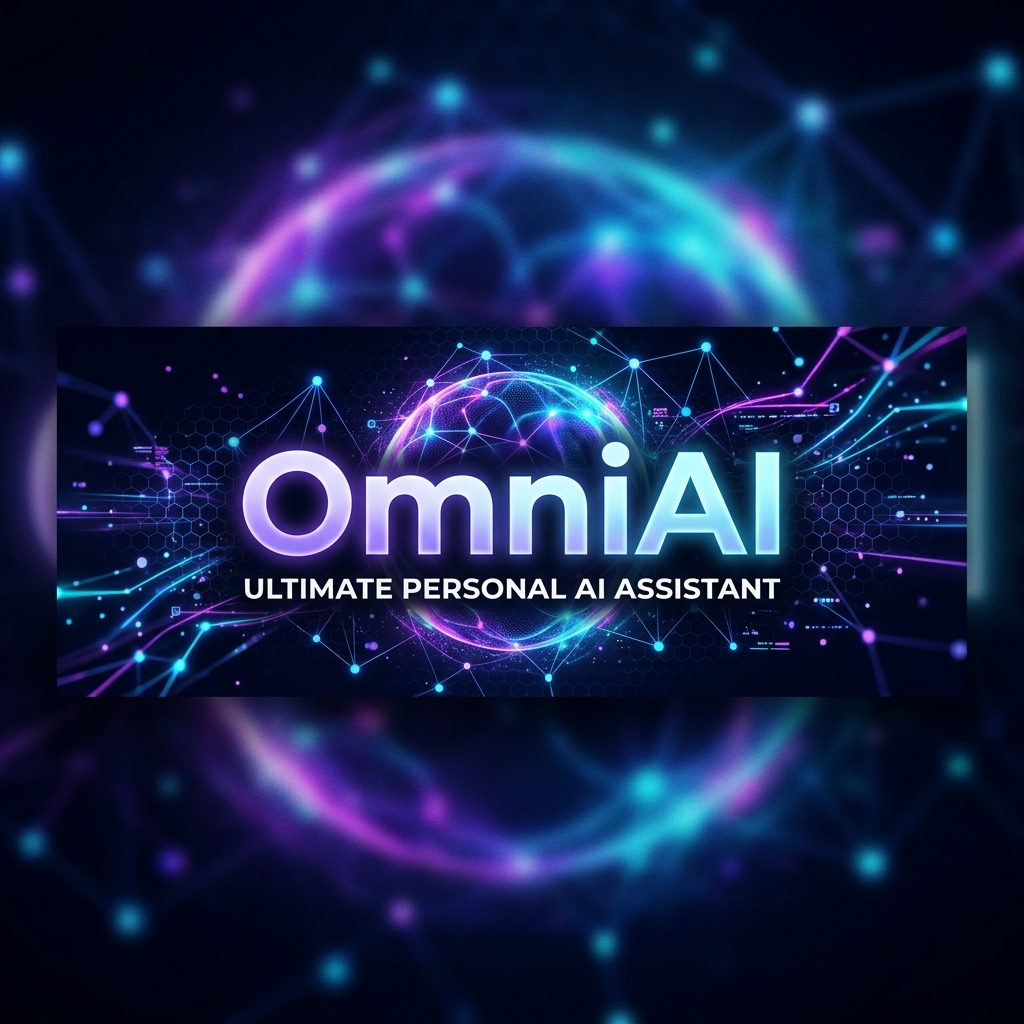
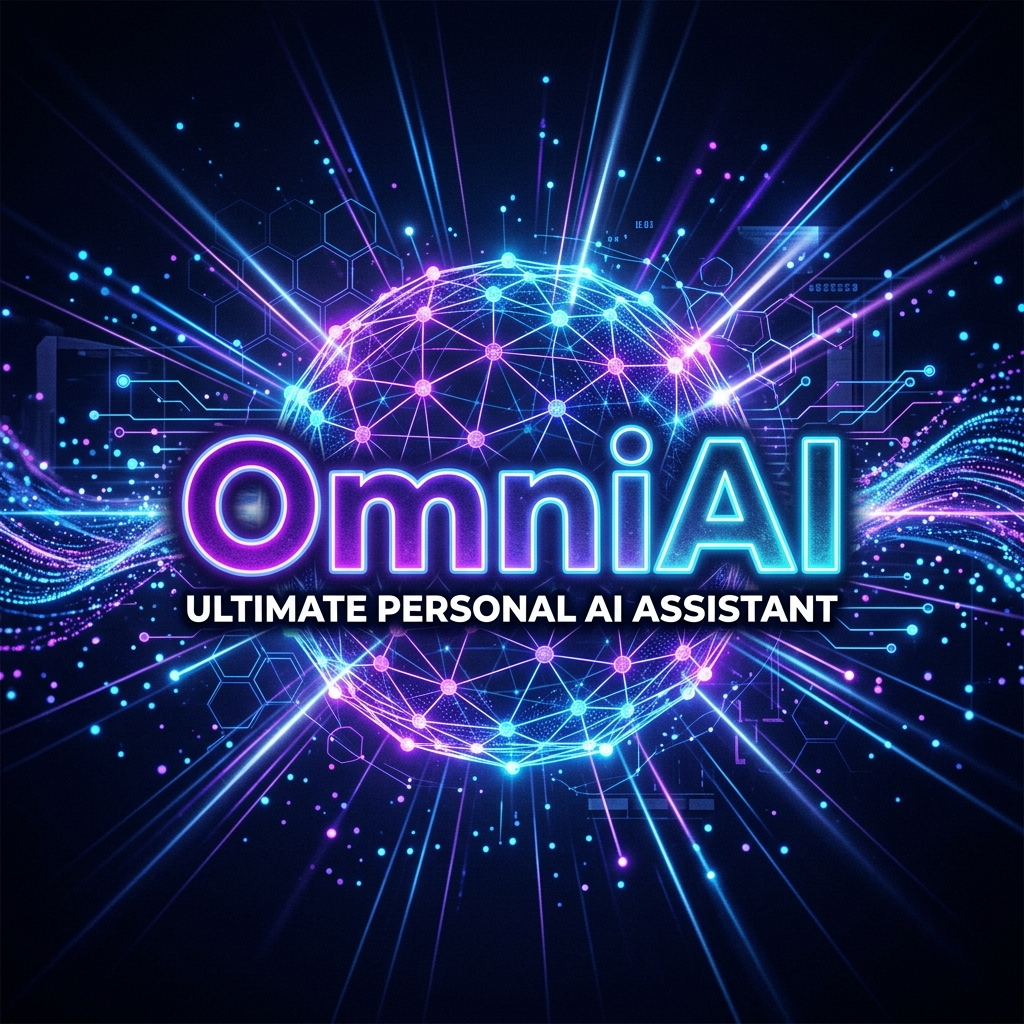
updates

diff --git a/README.md b/README.md
@@ -2,36 +2,57 @@
   <img src="public/banner.png" alt="OmniAI Banner" width="100%" />
 </p>
 
-<h1 align="center">OmniAI v2 – Ultimate Personal Assistant</h1>
-
-<p align="center">
-  A fully-featured personal assistant with RBAC, real AI, music upload, and smart home voice control.
-</p>
-
 <p align="center">
   <img src="https://img.shields.io/badge/React-18-61DAFB?style=for-the-badge&logo=react&logoColor=black" />
   <img src="https://img.shields.io/badge/Vite-5-646CFF?style=for-the-badge&logo=vite&logoColor=white" />
-  <img src="https://img.shields.io/badge/Claude-AI-7C3AED?style=for-the-badge&logo=anthropic&logoColor=white" />
+  <img src="https://img.shields.io/badge/Claude_AI-Anthropic-7C3AED?style=for-the-badge&logo=anthropic&logoColor=white" />
   <img src="https://img.shields.io/badge/Express-4-000000?style=for-the-badge&logo=express&logoColor=white" />
+  <img src="https://img.shields.io/badge/version-2.0.0-brightgreen?style=for-the-badge" />
 </p>
+
+<p align="center">
+  A fully-featured personal AI assistant with role-based access control, real AI chat, music upload, smart home voice control, health tracking, task management, and much more.
+</p>
+
+---
+
+## ✨ Features
+
+| Feature | Description |
+|---|---|
+| 🤖 **AI Assistant** | Real Claude AI chat with voice input, message history, copy & delete |
+| 🔐 **RBAC System** | 4 user roles (Admin, Premium, User, Guest) with permission-gated views |
+| 🏠 **Smart Home** | Voice commands, real Battery/Notification APIs, Home Assistant integration |
+| 🎵 **Music Upload** | Upload MP3/AAC/WAV/FLAC files, plays directly in browser via HTML5 Audio |
+| 📋 **Task Manager** | Create, complete, and track personal tasks |
+| 📅 **Calendar** | Schedule and view events |
+| 🏋️ **Health Tracker** | Log fitness and health metrics with charts |
+| 📚 **Learning Hub** | Courses, session timer, notes, editable flashcards |
+| 🎬 **Entertainment** | Media cards with real Spotify & YouTube links |
+| ⚙️ **Settings** | RBAC panel, password change, data export |
 
 ---
 
 ## 🚀 Quick Start
 
 ```bash
-# 1. Install dependencies
+# 1. Clone the repository
+git clone https://github.com/YOUR_USERNAME/omni-ai.git
+cd omni-ai
+
+# 2. Install dependencies
 npm install
 
-# 2. Configure your API key
+# 3. Configure your API key
 cp .env.example .env
-# Edit .env and add: ANTHROPIC_API_KEY=sk-ant-...
+# Open .env and add your Anthropic API key:
+# ANTHROPIC_API_KEY=sk-ant-...
 
-# 3. Start everything (frontend + backend server together)
+# 4. Start everything (frontend + backend together)
 npm run dev
 ```
 
-Visit http://localhost:3000
+Visit **http://localhost:3000** 🎉
 
 ---
 
@@ -39,53 +60,54 @@ Visit http://localhost:3000
 
 | Email | Password | Role | Access |
 |-------|----------|------|--------|
-| [email redacted] | admin123 | Admin | Full access + user management |
-| [email redacted] | premium123 | Premium | All features including AI |
-| [email redacted] | user123 | User | Core features, no AI |
-| [email redacted] | guest123 | Guest | Dashboard + Entertainment only |
+| [email redacted] | admin123 | **Admin** | Full access + user management |
+| [email redacted] | premium123 | **Premium** | All features including AI |
+| [email redacted] | user123 | **User** | Core features, no AI |
+| [email redacted] | guest123 | **Guest** | Dashboard & Entertainment only |
 
 ---
 
-## 🤖 AI Assistant Fix
+## 🤖 How the AI Works
 
-The AI was failing because browsers block direct Anthropic API calls (CORS).
-The fix: a local Express proxy server (`server.js`) handles the API call server-side.
+Browsers block direct Anthropic API calls (CORS). A local Express proxy server handles it server-side:
 
-**How it works:**
 ```
-Browser → /api/chat → server.js → Anthropic API
+Browser  →  /api/chat  →  server.js  →  Anthropic Claude API
 ```
 
-Run `npm run dev` to start both frontend and backend together.
-
----
-
-## 🎵 Music Upload
-
-In the Entertainment → Music tab, click **Upload Files** to upload any audio file (MP3, AAC, WAV, FLAC).
-The file plays directly in the browser using the HTML5 Audio API.
-Uploaded tracks show a ▶ button. External tracks link to Spotify and YouTube.
+Run `npm run dev` to start both the frontend (Vite) and backend (Express) together.
 
 ---
 
 ## 🏠 Smart Home
 
-The app runs in **Demo Mode** by default (all controls are simulated).
+Runs in **Demo Mode** by default — all controls are simulated locally.
 
-**Real web APIs actually used:**
-- Battery Status API (real battery level from your device)
-- Web Speech API (voice commands — requires Chrome/Edge)
-- Web Notifications API (device change alerts)
-
-**To connect real devices:**
-1. **Home Assistant**: Click ⚙ in Smart Home → enter your HA URL and access token
-2. See the ℹ info panel for Google Home, SmartThings, Philips Hue setup guides
+**Real Web APIs used:**
+- 🔋 Battery Status API (real device battery level)
+- 🎤 Web Speech API (voice commands — Chrome/Edge only)
+- 🔔 Web Notifications API (device change alerts)
 
 **Voice command examples:**
-- "Turn on living room lights"
-- "All lights off"
-- "Set brightness to 80"
-- "Set temperature to 22"
+```
+"Turn on living room lights"
+"All lights off"
+"Set brightness to 80"
+"Set temperature to 22"
+```
+
+**To connect real smart home devices:**
+1. **Home Assistant** — Click ⚙ in Smart Home → enter your HA URL + access token
+2. See the ℹ info panel inside the app for Google Home, SmartThings, Philips Hue guides
+
+---
+
+## 🎵 Music Upload
+
+In **Entertainment → Music**, click **Upload Files** to add any local audio file.
+- Supported formats: `MP3`, `AAC`, `WAV`, `FLAC`
+- Plays directly via the HTML5 Audio API — no server needed
+- Uploaded tracks show a ▶ play button; external tracks link to Spotify/YouTube
 
 ---
 
@@ -93,43 +115,106 @@ The app runs in **Demo Mode** by default (all controls are simulated).
 
 ```
 omni-ai/
-├── server.js              ← Express API proxy (run alongside Vite)
-├── .env                   ← API keys (create from .env.example)
-├── vite.config.js         ← Proxies /api/* to backend server
-├── src/
-│   ├── contexts/
-│   │   └── AuthContext.jsx        ← RBAC with 4 roles
-│   ├── components/
-│   │   ├── auth/
-│   │   │   └── LoginScreen.jsx    ← Login UI with demo accounts
-│   │   ├── layout/
-│   │   │   ├── Sidebar.jsx        ← Collapsible, role-aware
-│   │   │   └── Topbar.jsx         ← User info + logout
-│   │   └── ui/                    ← Badge, Button, Card, Modal, etc.
-│   ├── hooks/
-│   │   ├── useChat.js             ← AI chat (uses /api/chat proxy)
-│   │   └── useLocalStorage.js
-│   ├── data/
-│   │   ├── tasks.js · health.js   ← Seed data
-│   │   ├── courses.js · media.js
-│   │   ├── devices.js
-│   │   └── flashcards.js          ← Course-specific flashcards
-│   ├── views/
-│   │   ├── AIAssistant/           ← Voice input, copy, delete messages
-│   │   ├── Learning/              ← Session timer, notes, editable flashcards
-│   │   ├── Entertainment/         ← Music upload, real links, custom items
-│   │   ├── SmartHome/             ← Voice control, Web APIs, HA integration
-│   │   └── Settings/              ← RBAC panel, password, data export
-│   └── styles/                    ← CSS design system
+├── server.js               ← Express API proxy for Anthropic
+├── vite.config.js          ← Vite config + /api/* proxy
+├── .env.example            ← Environment variable template
+├── public/
+│   └── banner.png          ← Project banner
+└── src/
+    ├── main.jsx
+    ├── App.jsx
+    ├── contexts/
+    │   └── AuthContext.jsx         ← RBAC with 4 roles
+    ├── components/
+    │   ├── auth/
+    │   │   └── LoginScreen.jsx     ← Login UI with demo accounts
+    │   ├── layout/
+    │   │   ├── Sidebar.jsx         ← Collapsible, role-aware sidebar
+    │   │   └── Topbar.jsx          ← User info + logout
+    │   └── ui/                     ← Badge, Button, Card, Modal, Tabs...
+    ├── hooks/
+    │   ├── useChat.js              ← AI chat via /api/chat proxy
+    │   └── useLocalStorage.js
+    ├── data/
+    │   ├── tasks.js
+    │   ├── health.js
+    │   ├── courses.js
+    │   ├── media.js
+    │   ├── devices.js
+    │   └── flashcards.js
+    ├── views/
+    │   ├── AIAssistant/            ← Voice input, copy, delete messages
+    │   ├── Dashboard/
+    │   ├── Tasks/
+    │   ├── Calendar/
+    │   ├── Health/
+    │   ├── Learning/               ← Session timer, notes, flashcards
+    │   ├── Entertainment/          ← Music upload, media cards
+    │   ├── SmartHome/              ← Voice control, HA integration
+    │   ├── PersonalSpace/
+    │   └── Settings/               ← RBAC panel, data export
+    ├── constants/
+    │   └── navigation.js
+    ├── utils/
+    │   └── helpers.js
+    └── styles/
+        ├── globals.css
+        ├── variables.css
+        ├── components.css
+        └── animations.css
 ```
 
 ---
 
 ## 🔧 Tech Stack
 
-- **React 18** + Vite
-- **Express** (backend proxy for AI API)
-- **Recharts** (charts)
-- **Lucide React** (icons)
-- **Anthropic Claude API** (AI assistant)
-- **Web APIs**: Audio, Speech Recognition, Notifications, Battery
+| Layer | Technology |
+|-------|-----------|
+| **Frontend** | React 18 + Vite 5 |
+| **Backend** | Node.js + Express 4 |
+| **AI** | Anthropic Claude API |
+| **Charts** | Recharts |
+| **Icons** | Lucide React |
+| **Web APIs** | Audio, Speech Recognition, Notifications, Battery |
+| **Styling** | Vanilla CSS with custom design system |
+
+---
+
+## 📜 Scripts
+
+```bash
+npm run dev       # Start frontend + backend together (recommended)
+npm run server    # Start Express backend only
+npm run client    # Start Vite frontend only
+npm run build     # Build for production
+npm run preview   # Preview production build
+```
+
+---
+
+## 🔑 Environment Variables
+
+Create a `.env` file from the template:
+
+```bash
+cp .env.example .env
+```
+
+| Variable | Required | Description |
+|----------|----------|-------------|
+| `ANTHROPIC_API_KEY` | ✅ Yes | Your Anthropic API key — get one at [console.anthropic.com](https://console.anthropic.com/keys) |
+| `HA_BASE_URL` | ❌ Optional | Home Assistant base URL (e.g. `http://homeassistant.local:8123`) |
+| `HA_TOKEN` | ❌ Optional | Home Assistant long-lived access token |
+| `PORT` | ❌ Optional | Backend server port (default: `3001`) |
+
+---
+
+## 📄 License
+
+This project is open source. Feel free to use it, modify it, and build on top of it.
+
+---
+
+<p align="center">
+  Built with ❤️ using React, Vite & Claude AI
+</p>